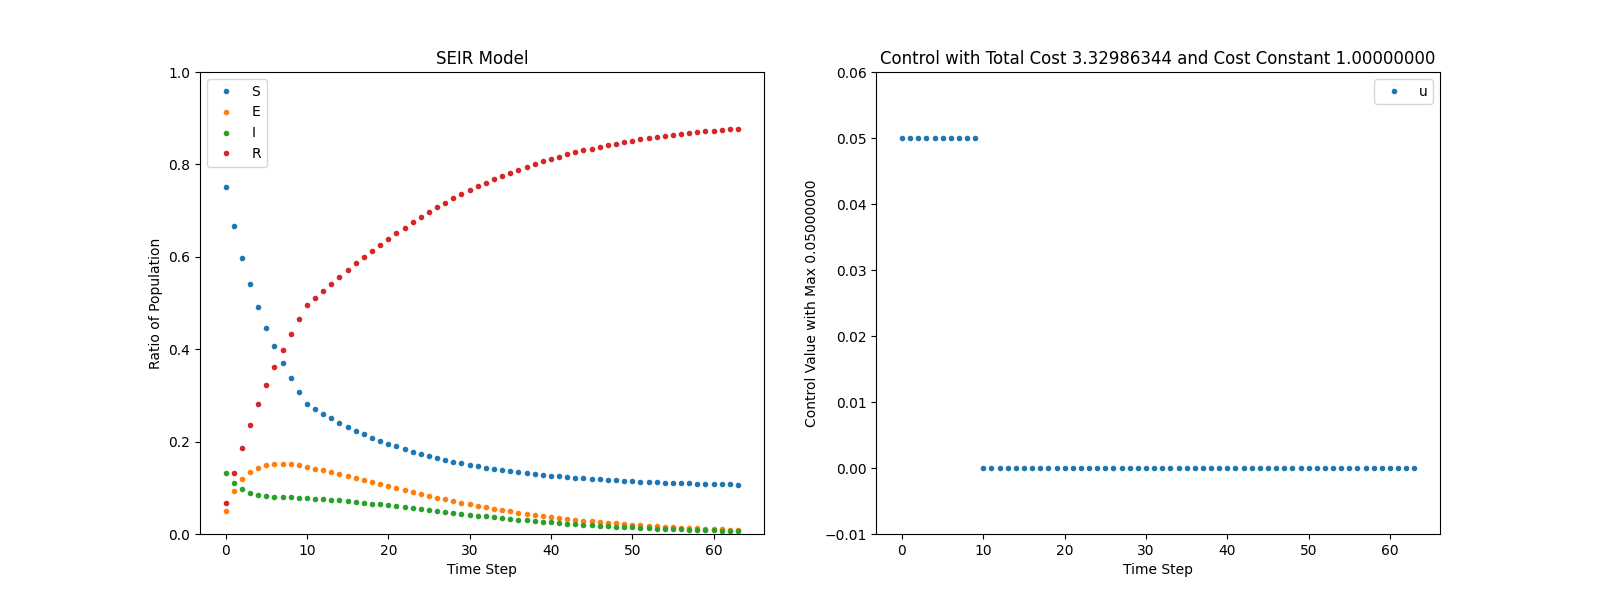
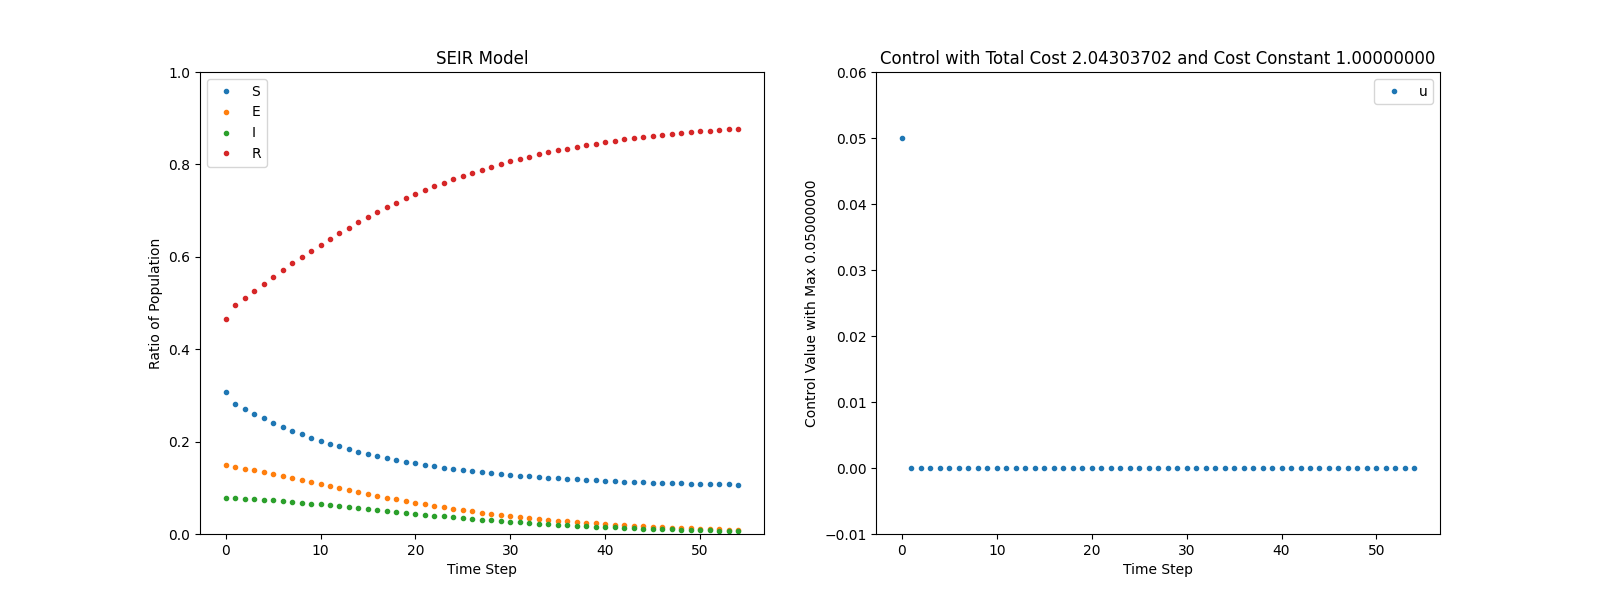
Keeping up

diff --git a/Vary_b.py b/Vary_b.py
@@ -10,7 +10,7 @@ input_costate = [0, 0, 0, 0]
 [beta, sigma, gamma] = [0.5, 0.1, 0.2]
 cost = 1
 control_max = 0.05
-max_time = 100 # not passed to sim
+max_time = 56 # not passed to sim
 
 def RunBackwardsSimulation(input_state, input_costate, beta, sigma, gamma, cost, control_max, max_time):
     simulation = Simulation(input_state, input_costate, beta, sigma, gamma, cost, control_max)
@@ -20,7 +20,7 @@ def RunBackwardsSimulation(input_state, input_costate, beta, sigma, gamma, cost,
             count += 1      #moved it outside of the if
             if number < 0 or number > 1:
                 return count
-        return 100000
+        return max_time
 
     backwards_simulation_data = np.zeros((max_time, 4))
     backwards_simulation_pdata = np.zeros((max_time, 4))
